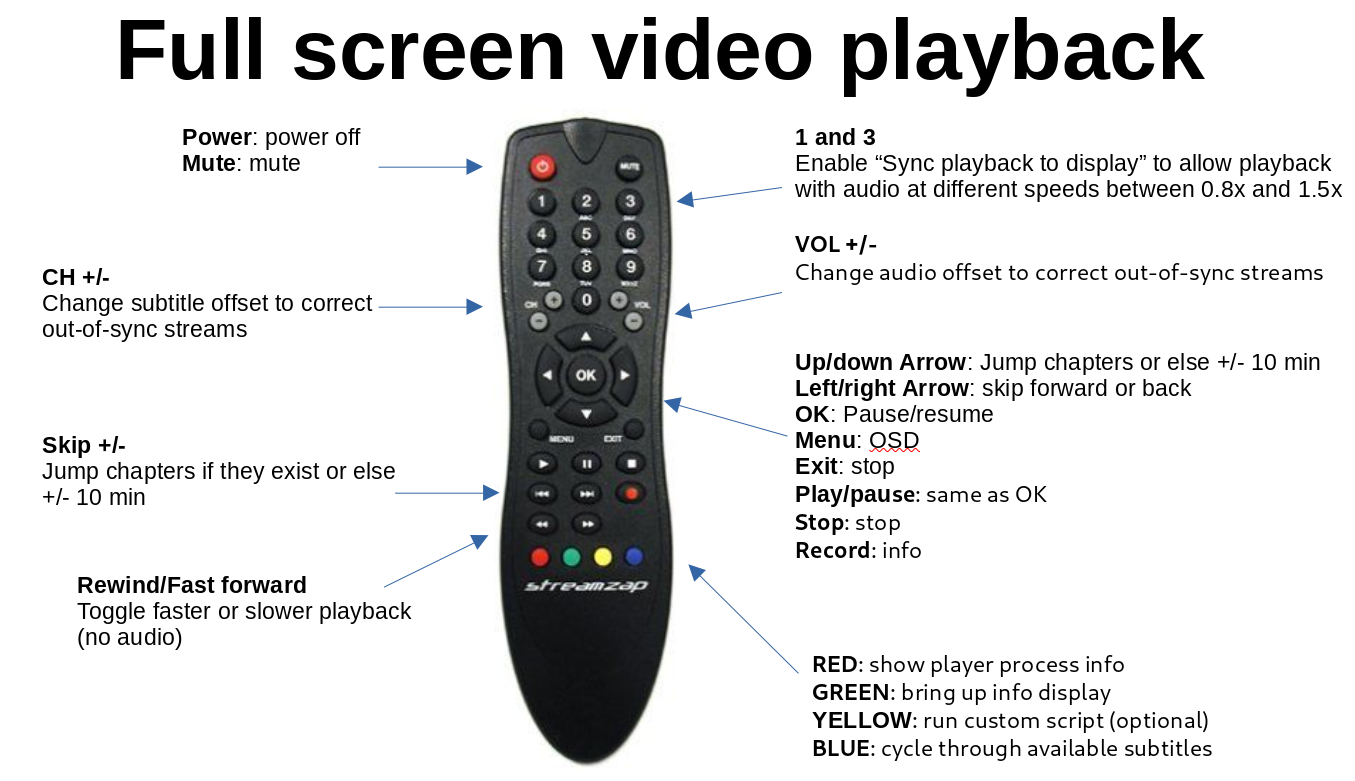
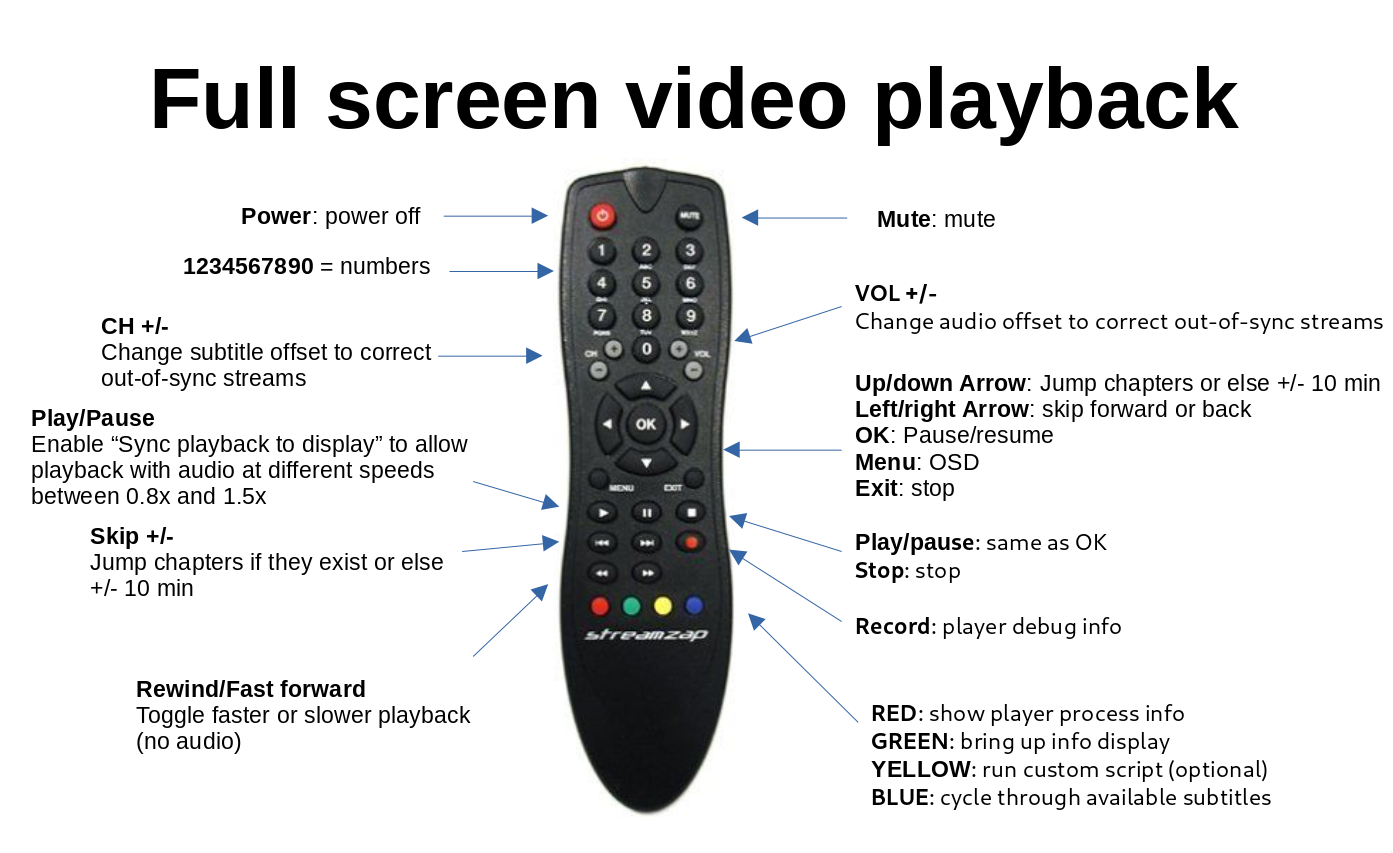
keyboard.xml: change behavior
* Play/Pause to TempoDown/TempoUp
* Record to PlayerDebug
* Leave number keys intact for seeking purposes and simply repurpose

diff --git a/README.md b/README.md
@@ -31,7 +31,7 @@ My recommended method for using this remote with Kodi is no longer via lirc.  Do
 * Optionally place the two suggested icons into `~` as shown in the script.
 
 #### On the homescreen/library
-<img src="https://github.com/graysky2/streamzap/blob/master/graphics/home.png" width="480" />
+<img src="https://github.com/graysky2/streamzap/blob/master/graphics/home.png" width="600" />
 
 #### In video playback
 <img src="https://github.com/graysky2/streamzap/blob/master/graphics/video.png" width="600" />
